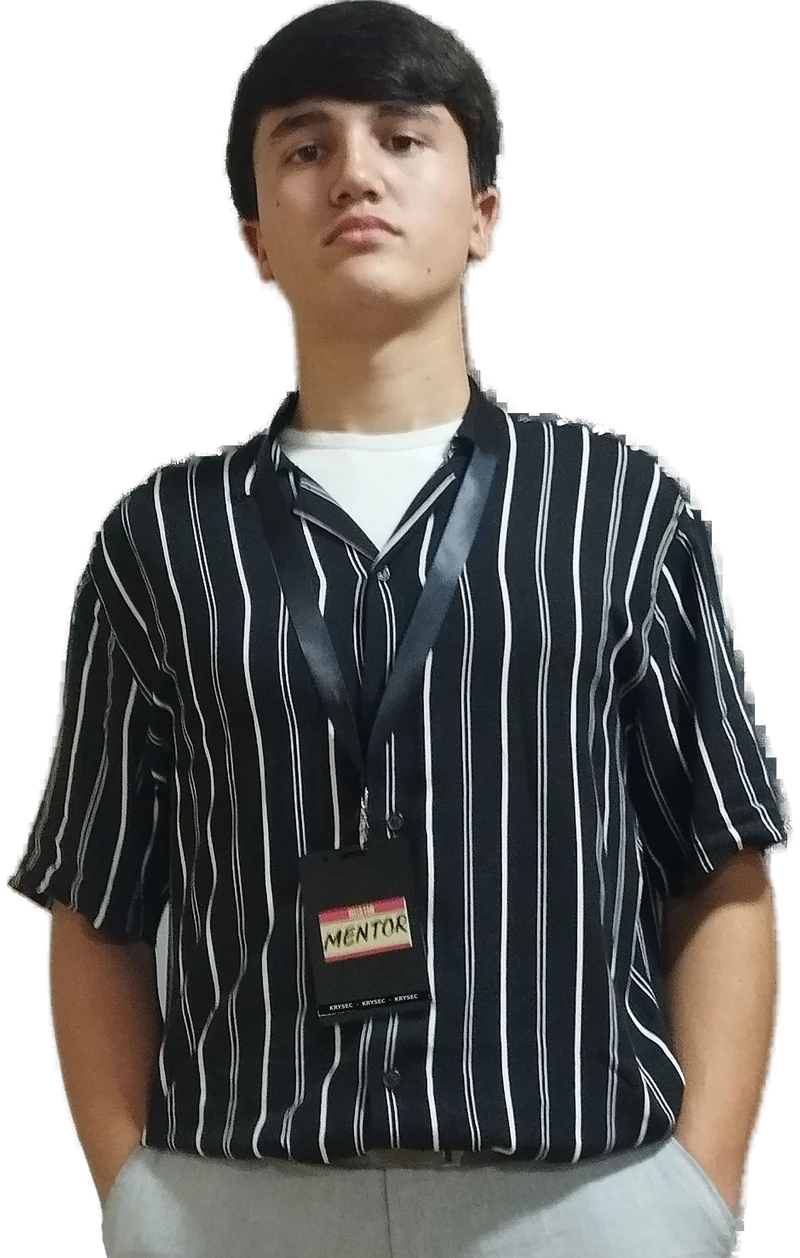
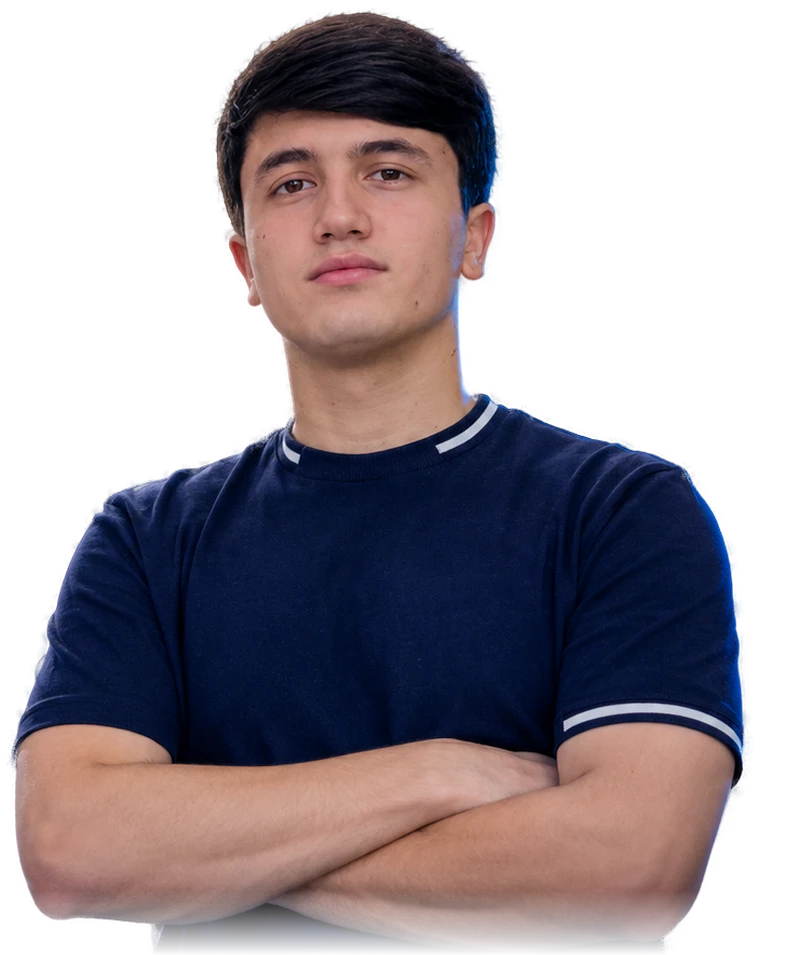
Mentor: yangi rasm, haqiqiy KRYSEC logosi, mentor bloki qayta dizayn
- Yuklangan ikkinchi rasmdan foydalanildi; noto'g'ri logolar fon bilan olib tashlandi
- Karta orqasida haqiqiy KRYSEC logosi, 'Krysec asoschisi' imzosi
- Ism, 'Asoschi / Ustoz / KRYSEC', iqtibos, 4 ta ko'nikma, 'Bilim • Amaliyot • Kelajak'

Claude-Session: https://claude.ai/code/session_01C2efgbDd2KXNJ3p2fnaZsE

diff --git a/index.html b/index.html
@@ -12,7 +12,7 @@
   <link rel="apple-touch-icon" href="assets/brand/logo.jpg">
   <link rel="preconnect" href="https://fonts.googleapis.com">
   <link rel="preconnect" href="https://fonts.gstatic.com" crossorigin>
-  <link href="https://fonts.googleapis.com/css2?family=Unbounded:wght@400;600;800&family=Manrope:wght@400;500;600;700&family=JetBrains+Mono:wght@400;600&display=swap" rel="stylesheet">
+  <link href="https://fonts.googleapis.com/css2?family=Unbounded:wght@400;600;800&family=Caveat:wght@600&family=Manrope:wght@400;500;600;700&family=JetBrains+Mono:wght@400;600&display=swap" rel="stylesheet">
   <link rel="stylesheet" href="assets/css/style.css">
   <link rel="modulepreload" href="assets/vendor/three.module.min.js">
 </head>
@@ -237,28 +237,42 @@
           <figure class="profile card tilt no-drag z3" id="profile">
             <div class="profile__bg" aria-hidden="true">
               <i class="profile__aurora"></i>
-              <i class="profile__ring r1"></i><i class="profile__ring r2"></i><i class="profile__ring r3"></i>
               <i class="profile__grid"></i>
+              <span class="profile__brand"><img src="assets/brand/mark.png" alt=""><b>KRYSEC</b></span>
+              <i class="profile__ring r1"></i><i class="profile__ring r2"></i>
               <i class="profile__scan"></i>
             </div>
             <div class="profile__mono" aria-hidden="true">DK</div>
             <img class="profile__img" src="assets/mentor/dovudbek.webp" alt="Dovudbek Khusanov" onerror="this.remove()">
+            <span class="profile__sign" aria-hidden="true">Krysec asoschisi</span>
             <span class="profile__chip c1 mono">CPTS</span>
             <span class="profile__chip c2 mono">eJPT</span>
             <span class="profile__chip c3 mono">CJCA</span>
             <span class="profile__xp"><b>3+</b><small>yil<br>tajriba</small></span>
             <figcaption class="profile__plate">
-              <b>Dovudbek Khusanov</b>
-              <span class="mono">Asoschi · Bosh mentor</span>
+              <span class="mono profile__role">Founder &amp; Lead Mentor — KRYSEC</span>
+              <span class="profile__tags">
+                <i><svg><use href="#i-shield"/></svg>Cybersecurity</i>
+                <i><svg viewBox="0 0 24 24"><path d="m8 7-5 5 5 5M16 7l5 5-5 5M14 4l-4 16"/></svg>Ethical Hacking</i>
+                <i><svg><use href="#i-net"/></svg>Networking</i>
+              </span>
             </figcaption>
           </figure>
         </div>
         <div class="mentor__right">
-          <h2 class="h2 z3" data-split>Sizni xalqaro sertifikatli mutaxassis o‘qitadi.</h2>
-          <p class="lead z3"><b>Dovudbek Khusanov</b> — KRYSEC asoschisi va bosh mentori, kiberxavfsizlikda <b>3+ yillik</b> amaliy tajriba. Uning sertifikatlari test emas,
-            soatlab davom etadigan <b>amaliy</b> imtihonlar. Ularni topshirish uchun nima kerakligini o‘z tajribasidan biladi
-            va sizga ham shu yo‘lni o‘rgatadi.</p>
+          <h2 class="mname z3"><span>Dovudbek</span> <span class="grad">Khusanov</span></h2>
+          <p class="mrole mono z3">Asoschi <i>/</i> Ustoz <i>/</i> KRYSEC</p>
+          <blockquote class="mquote z3">“Bilim — bu faqat kasb emas, bu erkinlikdir.”</blockquote>
+          <p class="lead z3">KRYSEC asoschisi va bosh mentori. Kiberxavfsizlik sohasida <b>3+ yillik</b> amaliy tajribaga ega,
+            bilimini xalqaro <b>amaliy</b> sertifikatlar bilan tasdiqlagan. Hozirda yangi avlod mutaxassislarini tayyorlash bilan shug‘ullanadi.</p>
+          <ul class="mskills z3">
+            <li><svg><use href="#i-shield"/></svg><span>Axborot xavfsizligi<small>Cybersecurity &amp; Pentesting</small></span></li>
+            <li><svg viewBox="0 0 24 24"><path d="m8 7-5 5 5 5M16 7l5 5-5 5M14 4l-4 16"/></svg><span>IT va dasturlash<small>Python, Web, OS</small></span></li>
+            <li><svg><use href="#i-net"/></svg><span>Tarmoq va tizimlar<small>Networking &amp; Systems</small></span></li>
+            <li><svg viewBox="0 0 24 24"><path d="M2 9 12 4l10 5-10 5z"/><path d="M6 11v5c3 2 9 2 12 0v-5M22 9v6"/></svg><span>Mentorlik<small>Real lablar, CTF, amaliyot</small></span></li>
+          </ul>
           <div class="certs" id="certs"></div>
+          <p class="mtag mono z3">KRYSEC <i>—</i> Bilim <i>•</i> Amaliyot <i>•</i> Kelajak</p>
         </div>
       </div>
     </section>

diff --git a/assets/css/style.css b/assets/css/style.css
@@ -818,3 +818,52 @@ body.is-scrolled .top { background: rgba(2, 6, 15, .55); backdrop-filter: blur(1
 .register__copy { text-align: center; }
 .register__copy .lead { margin-left: auto; margin-right: auto; }
 @media (min-width: 1100px) { .about__grid .feat { grid-template-columns: repeat(4, minmax(0, 1fr)); } .about__grid { width: min(1140px, 100%); } }
+
+/* =========================================================
+   Mentor — yangi ko'rinish (haqiqiy KRYSEC logosi bilan)
+   ========================================================= */
+.profile { aspect-ratio: 4 / 5.1; border-color: rgba(61, 140, 255, .55);
+  box-shadow: 0 0 0 1px rgba(61, 224, 255, .15), 0 0 60px -10px rgba(47, 123, 255, .55), 0 40px 90px -40px #000; }
+.profile__aurora { opacity: .55; }
+.profile__brand { position: absolute; right: 6%; top: 9%; display: flex; flex-direction: column; align-items: center; gap: 6px;
+  opacity: .5; filter: blur(2.5px); transform: translateZ(10px); }
+.profile__brand img { width: clamp(70px, 9vw, 110px); height: auto; }
+.profile__brand b { font-family: var(--f-display); font-weight: 800; font-size: clamp(22px, 2.6vw, 34px); letter-spacing: .1em; color: #cfe0ff; }
+.profile__mono { opacity: 0; }
+.profile__img { height: 86%; left: 46%; filter: drop-shadow(0 20px 40px rgba(0, 0, 0, .7)); }
+.profile__sign { position: absolute; right: 7%; top: 42%; z-index: 3; font: 600 clamp(20px, 2vw, 26px)/1 'Caveat', cursive; color: #5aa8ff;
+  transform: rotate(-12deg) translateZ(50px); text-shadow: 0 0 14px rgba(47, 123, 255, .6); }
+.profile__sign::after { content: ''; display: block; width: 70%; height: 2px; margin: 6px 0 0 20%; border-radius: 2px; background: currentColor; transform: rotate(-4deg); }
+.profile__xp { top: 60%; }
+.profile__chip.c2 { top: 28%; }
+.profile__plate { gap: 10px; }
+.profile__role { font-size: 11px; letter-spacing: .14em; text-transform: uppercase; color: var(--ink); }
+.profile__tags { display: flex; flex-wrap: wrap; gap: 6px 14px; padding-top: 10px; border-top: 1px solid var(--line); }
+.profile__tags i { display: inline-flex; align-items: center; gap: 6px; font-style: normal; font-size: 12px; color: var(--ink-2); }
+.profile__tags svg { width: 16px; height: 16px; fill: none; stroke: var(--cyan); stroke-width: 1.7; stroke-linecap: round; stroke-linejoin: round; }
+
+.mname { font-family: var(--f-display); font-weight: 800; font-size: clamp(38px, 5vw, 72px); line-height: .98; letter-spacing: -.04em; margin: 0 0 18px; }
+.mname span { display: block; }
+.mrole { font-size: clamp(12px, 1.1vw, 15px); letter-spacing: .32em; text-transform: uppercase; color: var(--ink-2); margin: 0 0 24px; }
+.mrole i { font-style: normal; color: var(--blue); margin: 0 .6em; }
+.mquote { margin: 0 0 22px; padding: 4px 0 4px 20px; border-left: 3px solid var(--blue); font-style: italic; font-size: clamp(17px, 1.5vw, 22px); color: var(--ink); max-width: 460px; }
+.mskills { list-style: none; margin: 26px 0 0; padding: 0; display: grid; grid-template-columns: 1fr 1fr; gap: 18px 24px; max-width: 560px; }
+.mskills li { display: flex; gap: 12px; align-items: flex-start; font-size: 15px; }
+.mskills svg { width: 26px; height: 26px; flex: none; fill: none; stroke: var(--blue); stroke-width: 1.6; stroke-linecap: round; stroke-linejoin: round; }
+.mskills small { display: block; color: var(--muted); font-size: 12.5px; font-style: italic; margin-top: 2px; }
+.mtag { margin: 26px 0 0; font-size: 12px; letter-spacing: .3em; text-transform: uppercase; color: var(--muted); }
+.mtag::before { content: ''; display: block; width: 50px; height: 2px; background: var(--blue); margin-bottom: 14px; }
+.mtag i { font-style: normal; color: var(--blue); margin: 0 .5em; }
+.mentor__right .certs { margin-top: 30px; }
+@media (max-width: 899px) {
+  .mskills { grid-template-columns: 1fr; gap: 14px; }
+  .mrole { letter-spacing: .2em; }
+  .profile__brand { top: 7%; right: 5%; }
+  .profile__sign { top: 40%; right: 4%; }
+  .mtag { letter-spacing: .18em; }
+}
+.profile__chip.c2 { left: 7%; right: auto; top: 35%; }
+.profile__sign { top: 31%; right: 5%; }
+.profile__xp { top: 47%; }
+.profile__plate .profile__tags, .profile__plate .profile__tags i { text-transform: none; letter-spacing: 0; font-family: var(--f-body); color: var(--ink-2); font-size: 12px; }
+@media (max-width: 899px) { .profile__sign { top: 31%; right: 4%; } .profile__xp { top: 45%; } }
